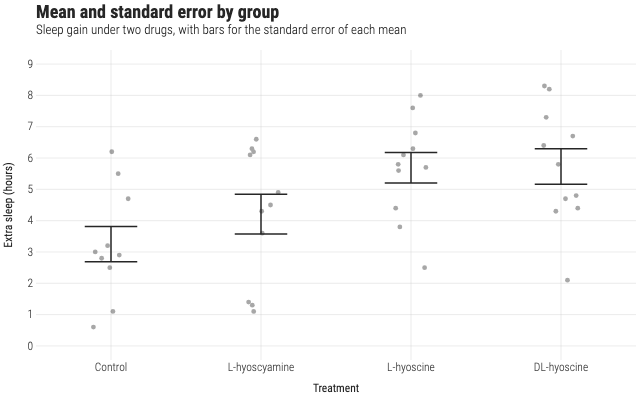
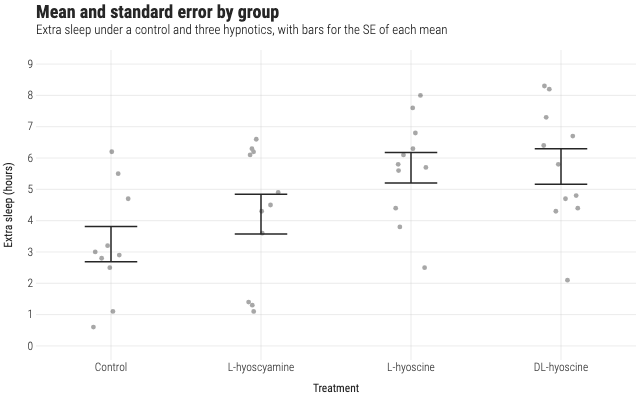
fix(docs): sync README showcase, recapture previews, fix two titles
Refresh gallery provenance after the copy pass, keep README snippets
aligned with Example.svelte, and correct facet/wrap and errorbar/mean-se
labels that misdescribed the data.

Changed region(s): [[0.0625, 0.06, 0.7188, 0.09]]

diff --git a/examples/manifest.ts b/examples/manifest.ts
@@ -316,8 +316,8 @@ export const EXAMPLES: readonly ExampleManifestEntry[] = [
     id: "facet/wrap",
     category: "facet",
     name: "wrap",
-    title: "One panel per parent height class",
-    description: "Facet wrap when a third variable should become a grid of small multiples.",
+    title: "One panel per parent–child pair type",
+    description: "Facet wrap when a grouping field should become a grid of small multiples.",
     tags: ["facet", "histogram", "bin", "wrap", "weight"],
     docsSection: "Facets",
     hasData: true,

diff --git a/examples/facet/wrap/spec.ts b/examples/facet/wrap/spec.ts
@@ -12,9 +12,9 @@ export default defineExample(
     .facet({ wrap: "pair", ncol: 2 })
     .theme("ggplot2")
     .labs({
-      title: "One panel per parent height class",
+      title: "One panel per parent–child pair type",
       subtitle:
-        "Child height against the other parent; panels step through the first parent's height",
+        "Child height histograms for father→son, father→daughter, mother→son, mother→daughter",
       x: "Child's height (inches)",
       y: "Children",
     })

diff --git a/examples/facet/wrap/Example.svelte b/examples/facet/wrap/Example.svelte
@@ -19,8 +19,8 @@
   <ThemeGgplot2 />
   <FacetWrap field="pair" ncol={2} />
   <Labs
-    title="One panel per parent height class"
-    subtitle="Child height against the other parent; panels step through the first parent's height"
+    title="One panel per parent–child pair type"
+    subtitle="Child height histograms for father→son, father→daughter, mother→son, mother→daughter"
     x="Child's height (inches)"
     y="Children"
   />

diff --git a/examples/errorbar/mean-se/spec.ts b/examples/errorbar/mean-se/spec.ts
@@ -18,7 +18,8 @@ export default defineExample(
     .theme("hrbr")
     .labs({
       title: "Mean and standard error by group",
-      subtitle: "Sleep gain under two drugs, with bars for the standard error of each mean",
+      subtitle:
+        "Extra sleep under a control and three hypnotics, with bars for the SE of each mean",
       x: "Treatment",
       y: "Extra sleep (hours)",
     })

diff --git a/examples/errorbar/mean-se/Example.svelte b/examples/errorbar/mean-se/Example.svelte
@@ -23,7 +23,7 @@
   />
   <Labs
     title="Mean and standard error by group"
-    subtitle="Sleep gain under two drugs, with bars for the standard error of each mean"
+    subtitle="Extra sleep under a control and three hypnotics, with bars for the SE of each mean"
     x="Treatment"
     y="Extra sleep (hours)"
   />

diff --git a/README.md b/README.md
@@ -94,8 +94,8 @@ and Windows.
     values={["#d14d41", "#014d64", "#4385be"]}
   />
   <Labs
-    title="Deaths in the Crimea, 1854–56"
-    subtitle="Annual rate per 1,000 — disease dwarfs combat, then collapses"
+    title="Stacked deaths by cause over time"
+    subtitle="Monthly rates split so each band is one cause of death"
     x="Month"
     y="Deaths per 1,000 per year"
     fill="Cause"
@@ -131,8 +131,8 @@ and Windows.
     values={["#8b7ec8", "#3aa99f"]}
   />
   <Labs
-    title="Heights of Galton's 934 adult children"
-    subtitle="Two overlapping distributions, separated at the means"
+    title="Two densities on one axis"
+    subtitle="Heights for sons and daughters; the means separate while the ranges overlap"
     x="Height (inches)"
     y="Density"
     fill="Child"
@@ -209,8 +209,8 @@ and Windows.
   <ThemeGgplot2 />
   <FacetWrap field="pair" ncol={2} />
   <Labs
-    title="4,892 English children, measured by Pearson and Lee"
-    subtitle="Sons stand four and a half inches taller; the two daughter panels are the same girls, tabulated against each parent"
+    title="One panel per parent–child pair type"
+    subtitle="Child height histograms for father→son, father→daughter, mother→son, mother→daughter"
     x="Child's height (inches)"
     y="Children"
   />
@@ -246,8 +246,8 @@ and Windows.
     values={["#c14a3d", "#3c6e8f"]}
   />
   <Labs
-    title="Who sailed with the Armada, 1588"
-    subtitle="Soldiers outnumber sailors everywhere except the galleys and the light pataches"
+    title="Parts of a whole within each group"
+    subtitle="Share of soldiers and sailors in each squadron"
     x="Squadron"
     y="Share of complement"
     fill="Role"
@@ -281,8 +281,8 @@ and Windows.
   <CoordFixed />
   <ScaleColorContinuous scheme="viridis" labels="d" />
   <Labs
-    title="Eleven maps of the Great Lakes, 1688–1818"
-    subtitle="White crosses are the 39 true positions; each dot is one map's attempt at one of them"
+    title="Map attempts against true positions"
+    subtitle="White crosses are truth; each dot is one historical map's attempt at a point"
     x="Longitude (°)"
     y="Latitude (°)"
     color="Map year"
@@ -326,8 +326,8 @@ Guides are separate from scale math:
   <ThemeFew />
   <ScaleXDiscrete domain={["Jun 5", "Jun 7", "Jun 9", "Jun 12", "Jul 2"]} />
   <Labs
-    title="Michelson's five runs, 1879"
-    subtitle="Twenty measurements each — the runs disagree more than the readings within them"
+    title="Boxplots for five runs of the same experiment"
+    subtitle="Twenty measurements per run; the boxes show the runs disagree more than readings within a run"
     x="Run"
     y="Velocity (km/s − 299,000)"
   />
@@ -356,8 +356,8 @@ Guides are separate from scale math:
 <GGPlot data={britishExports} aes={{ x: "year", y: "value" }}>
   <ThemeFivethirtyeight />
   <Labs
-    title="British and Irish exports, 1855–1899"
-    subtitle="Raw four-digit strings infer a calendar scale"
+    title="Years inferred from raw four-digit strings"
+    subtitle="Export totals over time without pre-parsing dates in the table"
     x="Year"
     y="£ millions"
   />
@@ -389,8 +389,8 @@ Guides are separate from scale math:
   <ThemeFivethirtyeight />
   <ScaleXDiscrete domain={["Vaccinated", "Placebo", "Not inoculated"]} />
   <Labs
-    title="The Salk vaccine field trial, 1954"
-    subtitle="Paralytic polio per 100,000 children in the randomised arm"
+    title="Columns with the rate printed on each bar"
+    subtitle="Paralytic polio per 100,000 children in each arm of the trial"
     x="Group"
     y="Cases per 100,000"
   />
